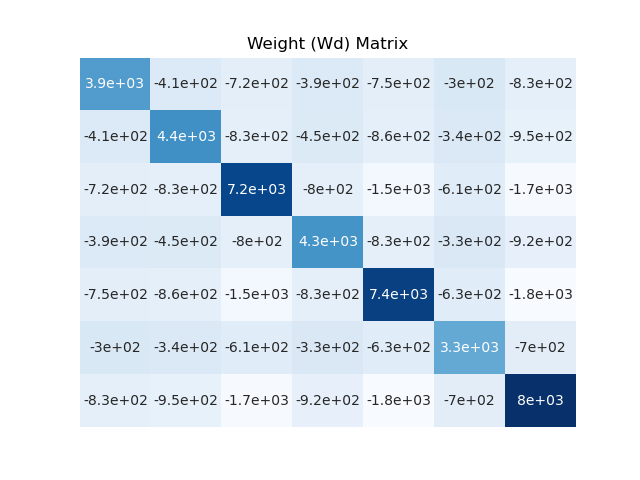
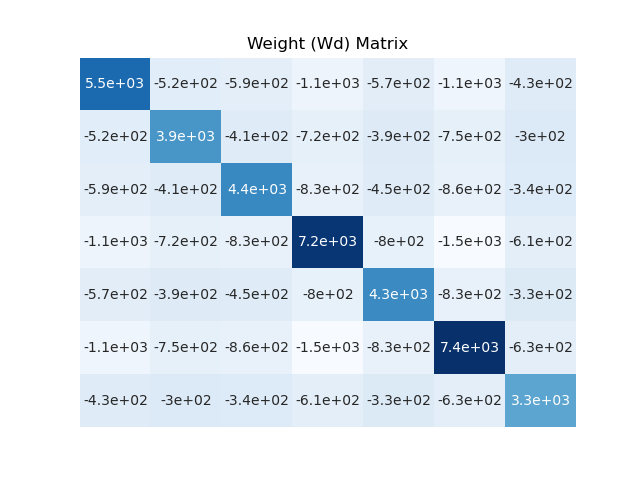
Fix: Weight matrix expressed in cycles

diff --git a/Computations.py b/Computations.py
@@ -156,7 +156,8 @@ G10_base_var = Variance(sat_coords=G10, receiver_coords=pillar_1A_base, L1=True)
 G10_rover_var = Variance(sat_coords=G10, receiver_coords=pillar_3A_rover, L1=True)
 
 elevations_radians = np.array([
-
+                             [G24_base_var .elevation_calculator()],
+                             [G24_rover_var.elevation_calculator()],
                              [G19_base_var .elevation_calculator()],
                              [G19_rover_var.elevation_calculator()],
                              [G18_base_var .elevation_calculator()],
@@ -170,9 +171,7 @@ elevations_radians = np.array([
                              [G12_base_var .elevation_calculator()],
                              [G12_rover_var.elevation_calculator()],
                              [G10_base_var .elevation_calculator()],
-                             [G10_rover_var.elevation_calculator()],
-                             [G24_base_var .elevation_calculator()],
-                             [G24_rover_var.elevation_calculator()]])
+                             [G10_rover_var.elevation_calculator()]])
 
 satelltie_names = np.array([["Base to G19"],
                             ["Rover to G19"],
@@ -222,6 +221,8 @@ plt.show()
 
 
 variance_vector = np.array([
+                             [G24_base_var.variance()],
+                             [G24_rover_var.variance()],
                              [G19_base_var .variance()],
                              [G19_rover_var.variance()],
                              [G18_base_var .variance()],
@@ -235,12 +236,7 @@ variance_vector = np.array([
                              [G12_base_var .variance()],
                              [G12_rover_var.variance()],
                              [G10_base_var .variance()],
-                             [G10_rover_var.variance()],
-                             [G24_base_var .variance()],
-                             [G24_rover_var.variance()]])
-
-print(variance_vector)
-
+                             [G10_rover_var.variance()]])
 
 
 # 16 x 8:  Differencing matrix
@@ -409,7 +405,7 @@ if __name__ == "__main__":
     DIM: 16 x 16 
     """
 
-    cl = np.eye(16, 16) * (variance_vector * (1/wl))  # back to cycles
+    cl = np.eye(16, 16) * (1/wl * variance_vector)   # back to cycles
     ax = sns.heatmap((cl),
                 annot=True,
                 xticklabels=False,
@@ -419,7 +415,6 @@ if __name__ == "__main__":
     plt.title("Covariance matrix of observations (cl) Matrix")
     plt.savefig("Matrices/Covariance matrix of observations (cl) Matrix")
     plt.show()
-
 
 
     """
@@ -450,6 +445,8 @@ if __name__ == "__main__":
     plt.savefig("Matrices/covariance matrix of the double differences (Cd) Matrix")
     plt.show()
 
+    print(Cd)
+
 
     """
     Calculate the weight matrix of the double differences. 
@@ -459,6 +456,7 @@ if __name__ == "__main__":
     """
 
     Wd = linalg.inv(Cd)
+
     print(Wd)
 
     # Wd = np.around(Wd, decimals=4)

diff --git a/Matrix_Computation_Classes.py b/Matrix_Computation_Classes.py
@@ -31,14 +31,18 @@ class DD:
                        L1: bool = True,
                        DD_s_p_a: float = None):
 
+        # Set to true by default
         if L1:
             wl = 0.19029367
 
+        # 3D cartesian coordinate check
+        assert len(ref_station) == len(rov_station) == len(corresponding_sat) == len(sat_ref)
 
-        brrs = distance(ref_station, sat_ref)
-        rrrs = distance(rov_station, sat_ref)
-        brcs = distance(ref_station, corresponding_sat)
-        rrcs = distance(rov_station, corresponding_sat)
+        # Compute ranges from satellite coordinates
+        brrs: float = distance(ref_station, sat_ref)
+        rrrs: float = distance(rov_station, sat_ref)
+        brcs: float = distance(ref_station, corresponding_sat)
+        rrcs: float = distance(rov_station, corresponding_sat)
 
         self.X_1A = ref_station[0]
         self.Y_1A = ref_station[1]
